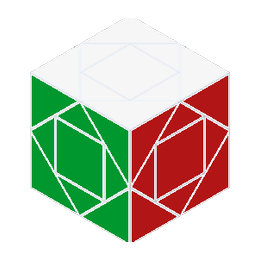
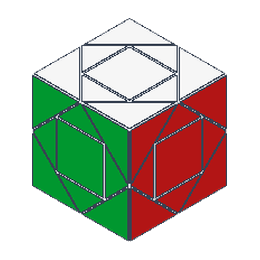
Fix shape-mod thumbnails: mirror crop and invisible seams
- export_puzzle_thumbs: reset the CubeView camera to a 3/4 view and zoom
  out so the Mirror cube is not clipped
- mastermorphix_view: draw dark seams for the shape cubes
  (axis/pandora/windmill/fisher) so the grid lines are visible on their
  white faces instead of vanishing

Changed region(s): [[0.0923, 0.0615, 0.8923, 0.9538], [0.3692, 0.8615, 0.4308, 0.8923], [0.1846, 0.2154, 0.2462, 0.2462]]

diff --git a/tools/export_puzzle_thumbs.py b/tools/export_puzzle_thumbs.py
@@ -113,6 +113,14 @@ class ThumbApp(App):
                 except Exception:
                     pass
             view.set_cube(cube)
+            # CubeView-based views (mastermorphix/mirror/shape): use the
+            # standard 3/4 camera and a little zoom-out so nothing is clipped.
+            if hasattr(view, "reset_camera"):
+                view.reset_camera()
+            if hasattr(view, "_display_zoom"):
+                view._display_zoom = 0.75
+                if hasattr(view, "_redraw"):
+                    view._redraw()
             # Strip the input-screen face-number labels; thumbnails want the
             # bare puzzle only.
             for lab in list(getattr(view, "_face_labels", [])):

diff --git a/renderer/mastermorphix_view.py b/renderer/mastermorphix_view.py
@@ -277,7 +277,9 @@ class MastermorphixView(CubeView):
         for a, b in seams:
             # Keep the ribbon above one physical pixel. Subpixel ribbons
             # disappear between pixel centers and make flat seams look dotted.
-            draw_edge(a, b, .75, ((.22,.26,.32,1) if getattr(self.cube,'puzzle_kind',None)=='mirror'
+            draw_edge(a, b, .75, ((.22,.26,.32,1)
+                                 if getattr(self.cube,'puzzle_kind',None) in
+                                 ('mirror','axis','pandora','windmill','fisher')
                                  else (.94, .955, .975, 1)))
         for a, b in borders:
             draw_edge(a, b, 1.6, (.18, .88, 1, 1))
